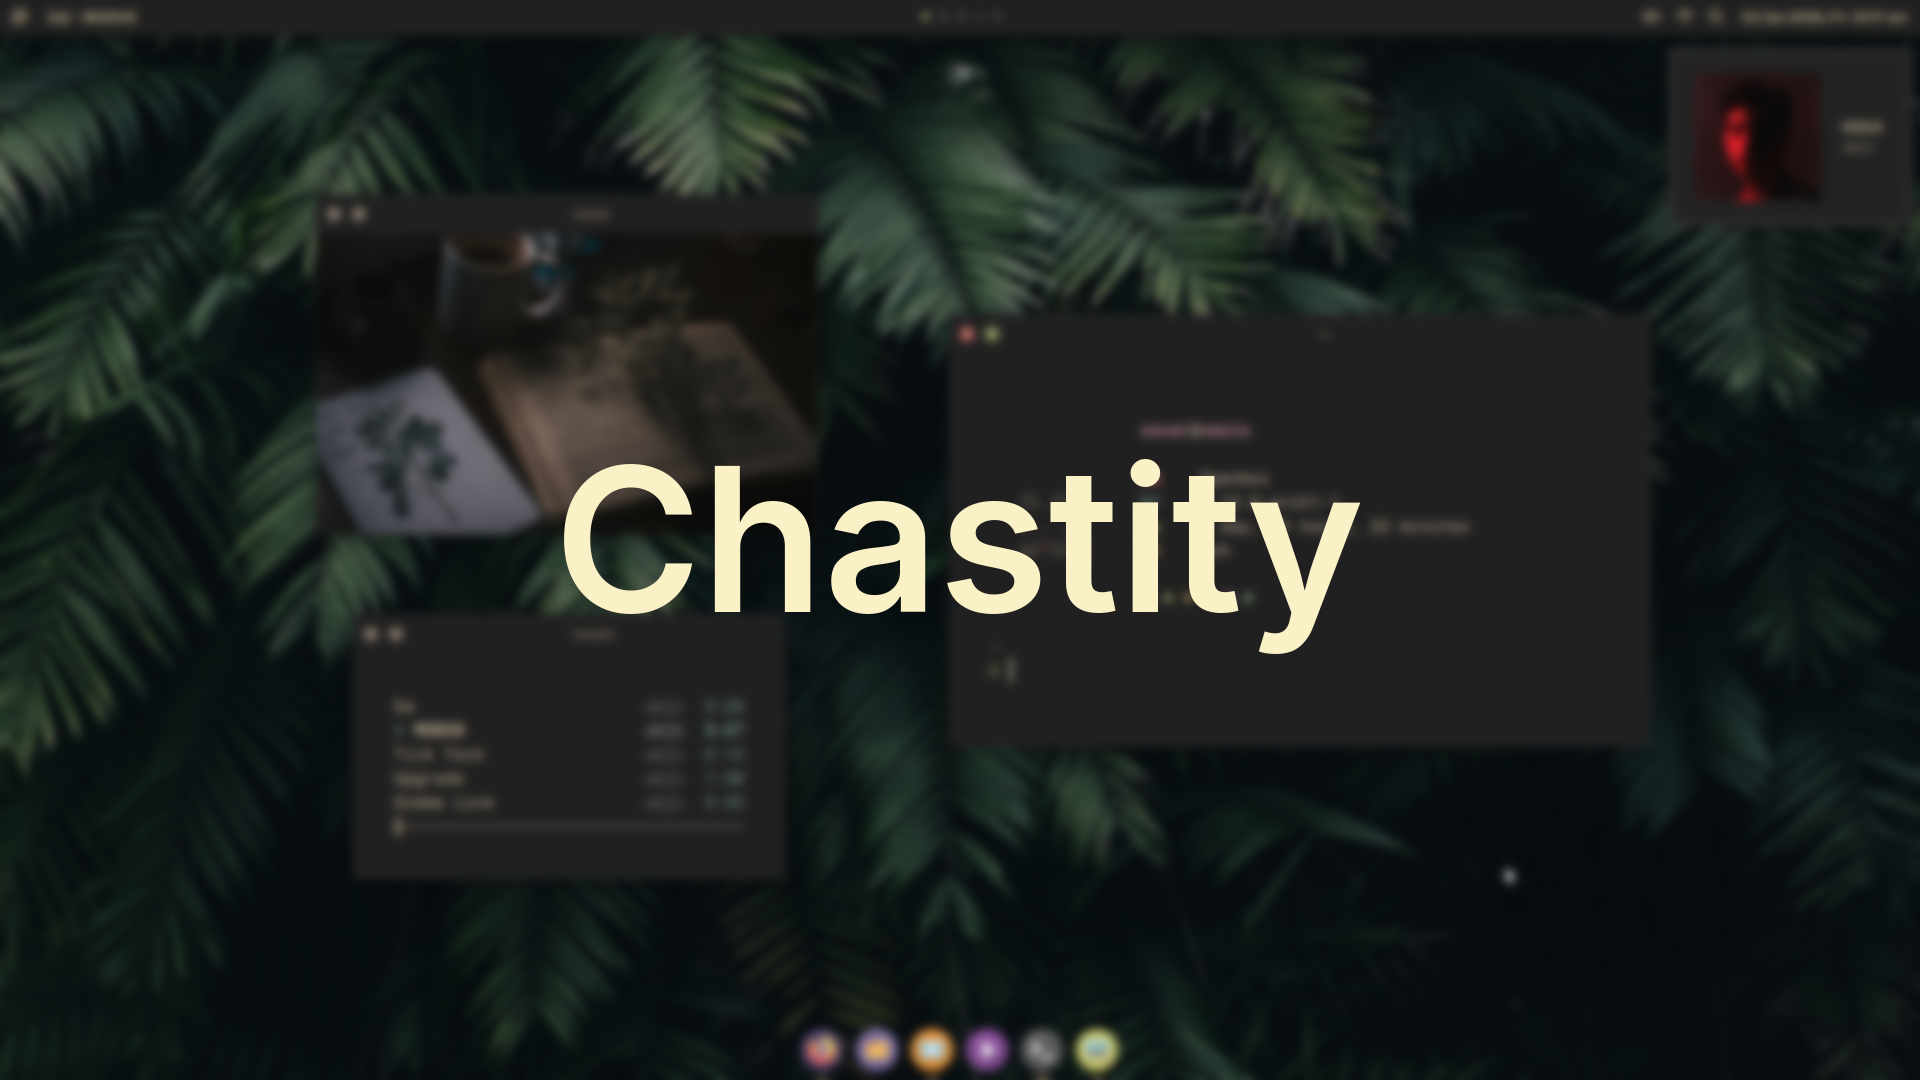
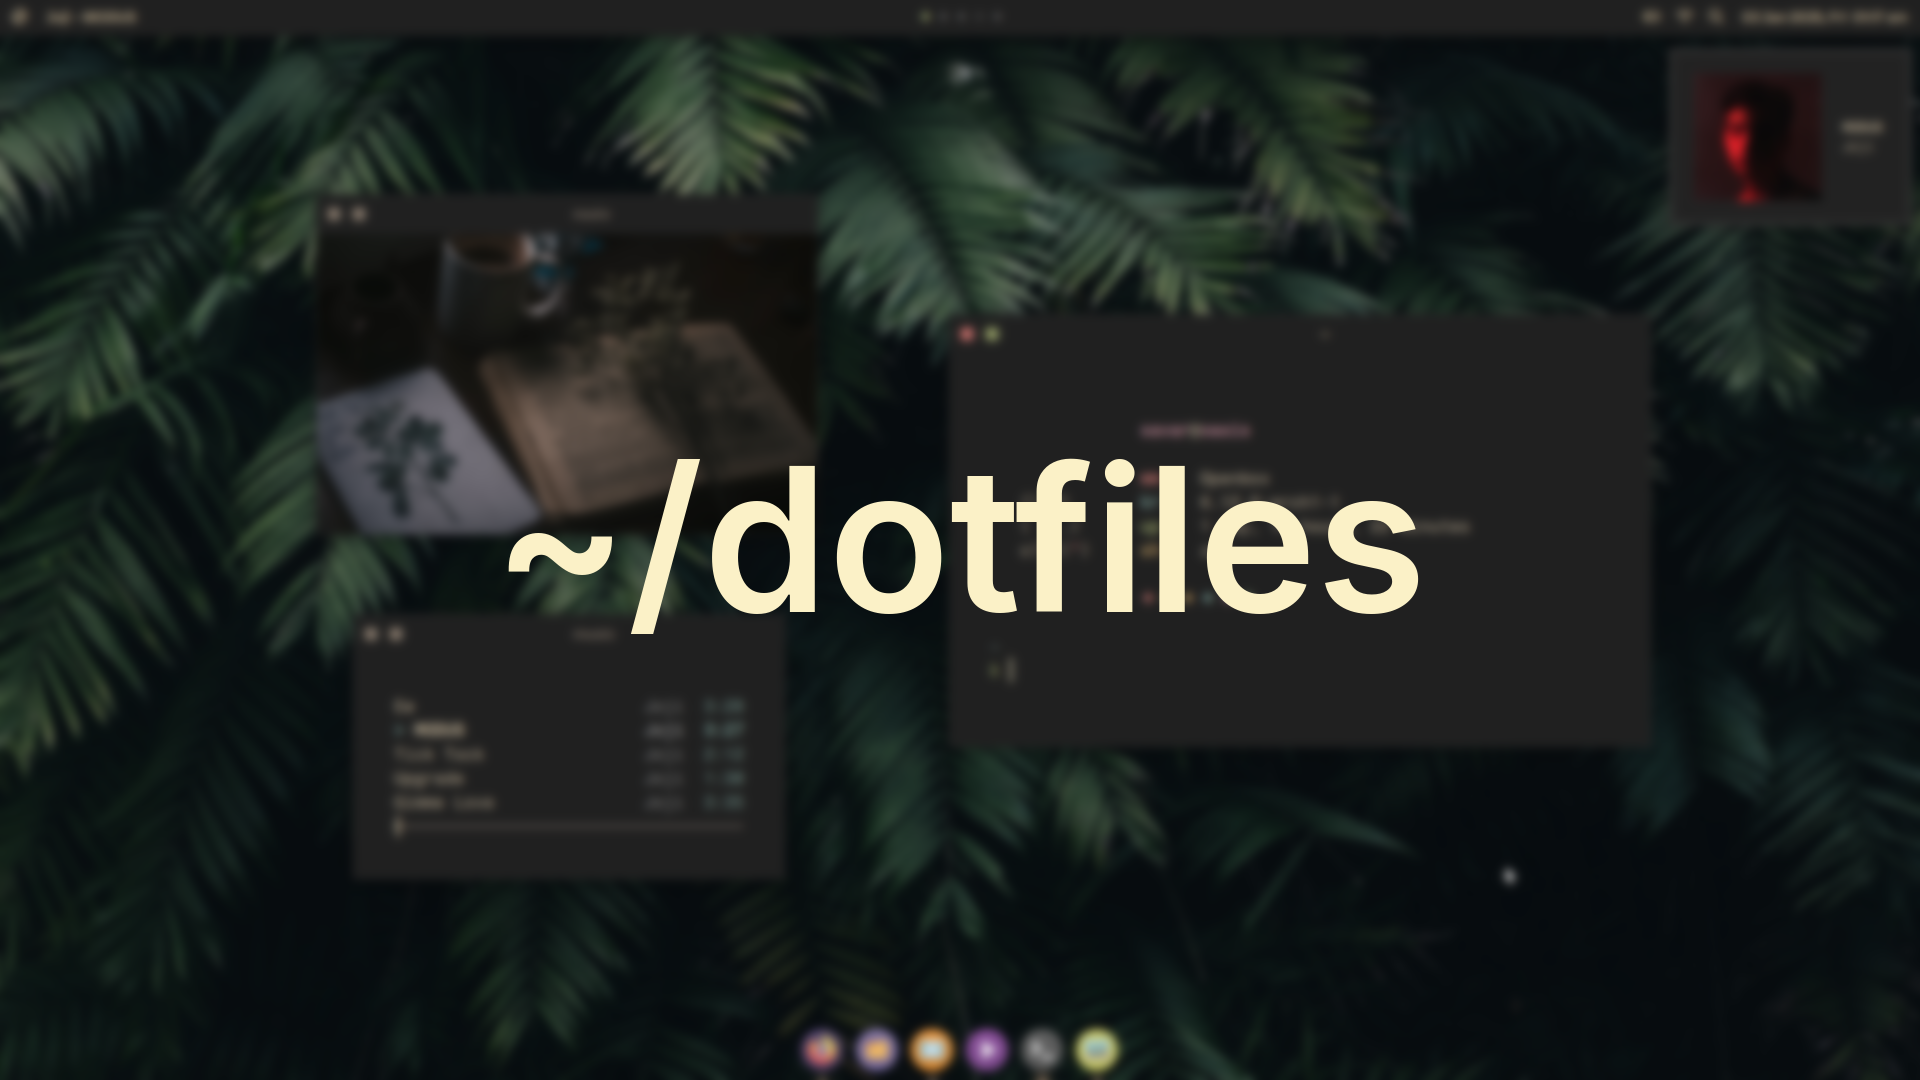
showcase

Changed region(s): [[0.25, 0.4278, 0.75, 0.6111]]

diff --git a/README.md b/README.md
@@ -1,7 +1,6 @@
 <div align=center>
-<h1>~/dotfiles</h1><br>
 
-![showcase](.assets/chastity/show1.png)
+![showcase](.assets/chastity/temp2.png)
 <br><br>
 
 &ensp;[<kbd> <br> Gallery <br> </kbd>](#Screenshots)&ensp;
